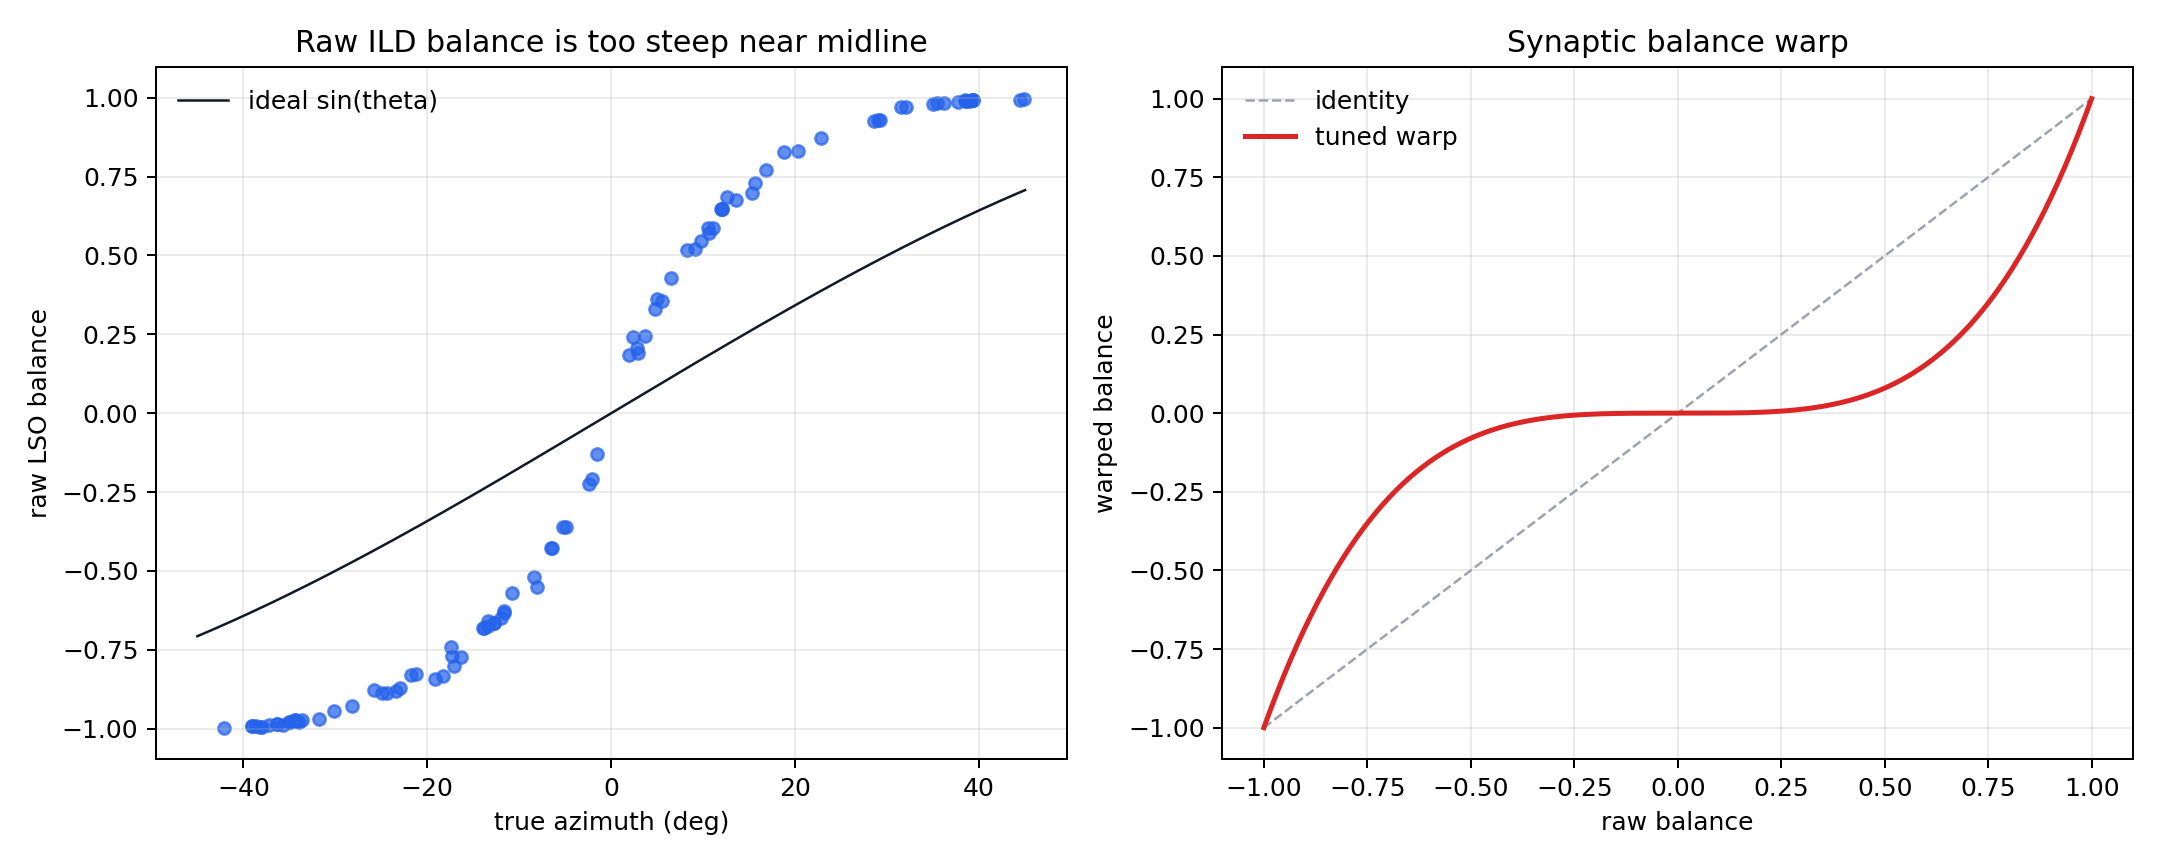
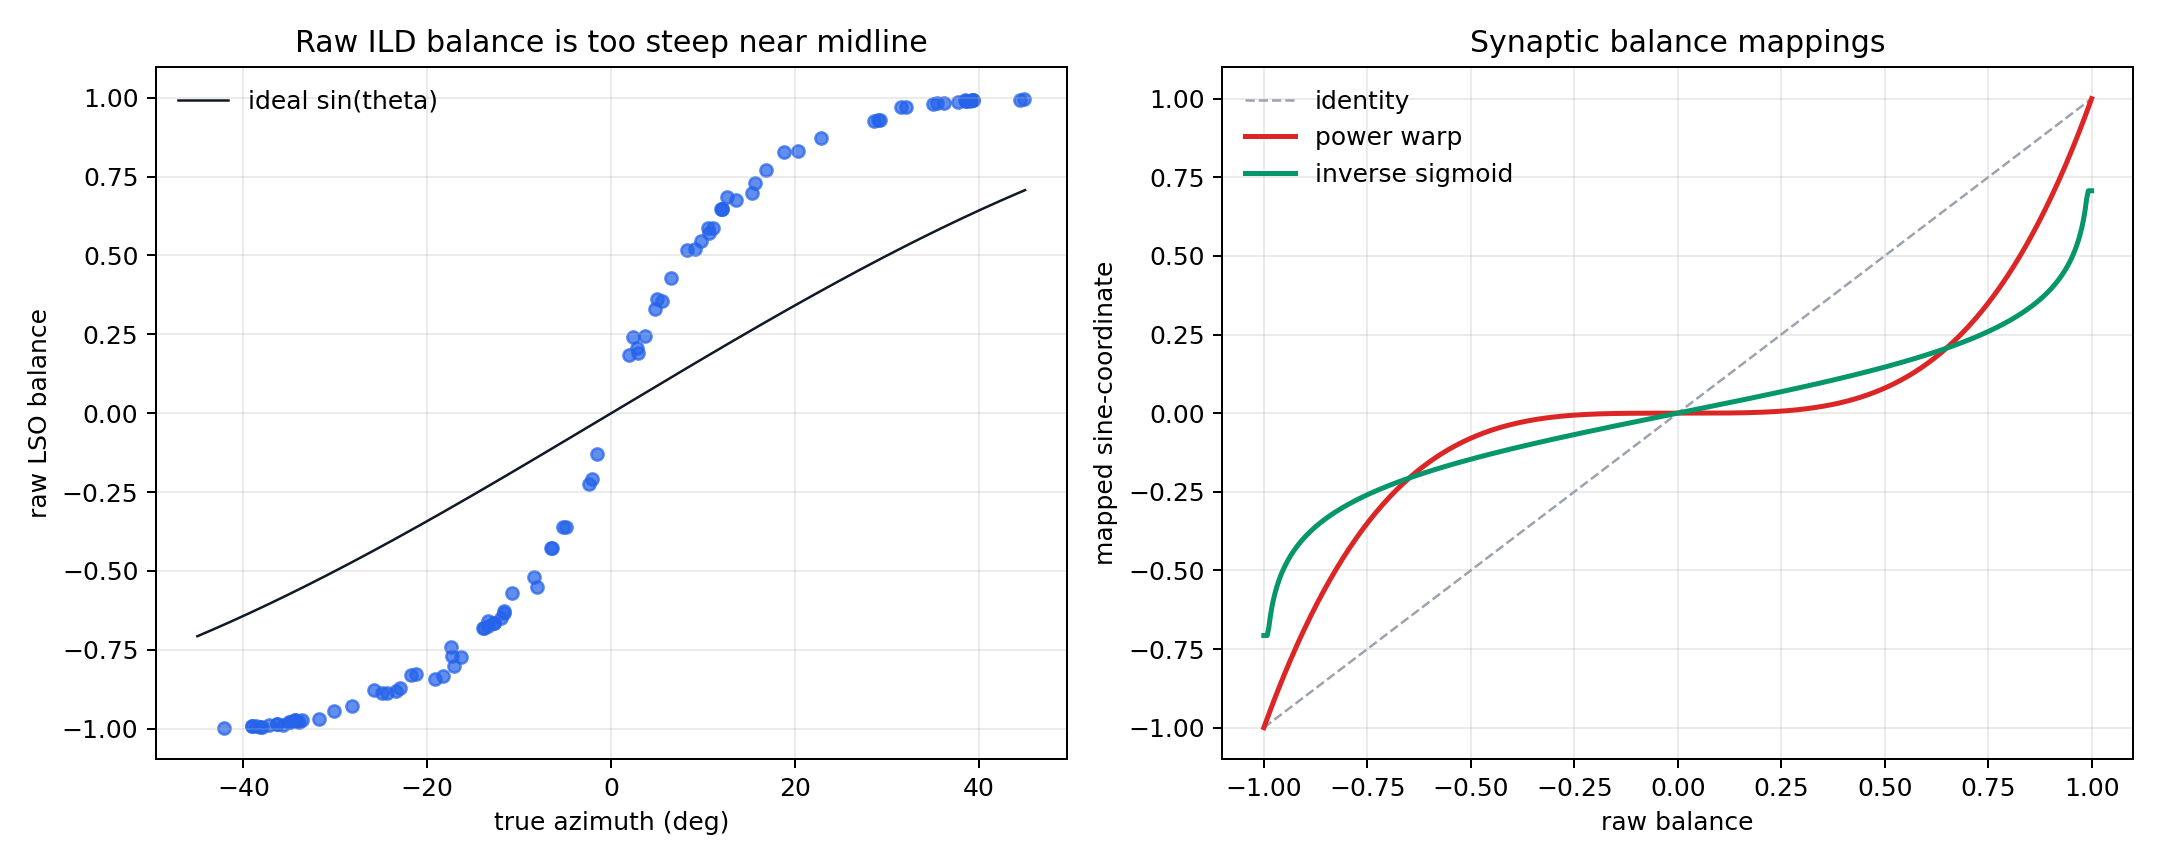
sigmoid warping

diff --git a/azimuth_pathway/experiments/azimuth_pathway_first_attempt.py b/azimuth_pathway/experiments/azimuth_pathway_first_attempt.py
@@ -57,6 +57,7 @@ ITD_WEIGHT = 0.90
 ILD_WEIGHT = 0.10
 WARP_POWER_GRID = np.linspace(1.0, 5.0, 81)
 WARP_SIGMA_GRID = np.linspace(0.03, 0.30, 55)
+INVERSE_SIGMOID_K_GRID = np.linspace(1.0, 10.0, 181)
 
 OLD_MODEL_AZIMUTH_RESULTS = {
     "Round 3 2B + 3": 2.8595,
@@ -385,6 +386,105 @@ def tune_warped_ild_mapping(predictions: list[AzimuthPrediction], bins_deg: np.n
     return best
 
 
+def inverse_sigmoid_ild_activation(
+    balance: float,
+    drive: float,
+    bins_deg: np.ndarray,
+    gain: float,
+    sigma: float,
+    limit_deg: float,
+) -> np.ndarray:
+    """Project LSO balance with an inverse-sigmoid synaptic mapping.
+
+    This assumes the measured LSO balance is a saturating function of the
+    underlying azimuth coordinate, approximately `b = tanh(k sin(theta))`.
+    The mapping therefore estimates the hidden sine-coordinate by applying
+    `atanh(b) / k`.
+
+    Args:
+        balance: Raw opponent balance.
+        drive: Total opponent drive.
+        bins_deg: Candidate azimuth bins.
+        gain: Saturation gain `k`.
+        sigma: Synaptic tuning width in sine-coordinate units.
+        limit_deg: Represented azimuth support used for clipping.
+
+    Returns:
+        Inverse-sigmoid ILD activation over candidate azimuth bins.
+    """
+    max_sine = math.sin(math.radians(limit_deg))
+    safe_balance = float(np.clip(balance, -0.999999, 0.999999))
+    mapped = float(np.arctanh(safe_balance)) / gain
+    mapped = float(np.clip(mapped, -max_sine, max_sine))
+    expected = np.sin(np.deg2rad(bins_deg))
+    return np.exp(-0.5 * ((mapped - expected) / sigma) ** 2) * drive
+
+
+def decode_inverse_sigmoid_ild(
+    predictions: list[AzimuthPrediction],
+    bins_deg: np.ndarray,
+    gain: float,
+    sigma: float,
+    limit_deg: float,
+) -> tuple[np.ndarray, list[np.ndarray]]:
+    """Decode inverse-sigmoid ILD predictions for a dataset.
+
+    Args:
+        predictions: Existing pathway predictions with LSO stage outputs.
+        bins_deg: Candidate azimuth bins.
+        gain: Saturation gain `k`.
+        sigma: Synaptic tuning width.
+        limit_deg: Represented azimuth support.
+
+    Returns:
+        Pair `(decoded_degrees, activations)`.
+    """
+    decoded = []
+    activations = []
+    for prediction in predictions:
+        balance, drive = lso_balance_and_drive(prediction)
+        activation = inverse_sigmoid_ild_activation(balance, drive, bins_deg, gain, sigma, limit_deg)
+        activations.append(activation)
+        decoded.append(centre_of_mass(activation, bins_deg))
+    return np.array(decoded, dtype=np.float64), activations
+
+
+def tune_inverse_sigmoid_ild_mapping(
+    predictions: list[AzimuthPrediction],
+    bins_deg: np.ndarray,
+    limit_deg: float,
+) -> dict[str, float]:
+    """Grid-search the inverse-sigmoid ILD mapping.
+
+    Args:
+        predictions: Calibration predictions.
+        bins_deg: Candidate azimuth bins.
+        limit_deg: Represented azimuth support.
+
+    Returns:
+        Best inverse-sigmoid parameters and calibration metrics.
+    """
+    true = np.array([item.true_azimuth_deg for item in predictions], dtype=np.float64)
+    best: dict[str, float] | None = None
+    for gain in INVERSE_SIGMOID_K_GRID:
+        for sigma in WARP_SIGMA_GRID:
+            decoded, _ = decode_inverse_sigmoid_ild(predictions, bins_deg, float(gain), float(sigma), limit_deg)
+            error = decoded - true
+            mae = float(np.mean(np.abs(error)))
+            if best is None or mae < best["mae_deg"]:
+                best = {
+                    "gain": float(gain),
+                    "sigma": float(sigma),
+                    "mae_deg": mae,
+                    "rmse_deg": float(np.sqrt(np.mean(error**2))),
+                    "max_abs_error_deg": float(np.max(np.abs(error))),
+                    "bias_deg": float(np.mean(error)),
+                }
+    if best is None:
+        raise RuntimeError("Inverse-sigmoid ILD tuning failed.")
+    return best
+
+
 def metric_dict_from_arrays(true: np.ndarray, pred: np.ndarray) -> dict[str, float]:
     """Compute azimuth metrics from arrays."""
     error = angular_error(pred, true)
@@ -661,13 +761,15 @@ def plot_range_comparison(
 def plot_warped_ild_scatter(
     predictions: list[AzimuthPrediction],
     warped_predictions_deg: np.ndarray,
+    inverse_predictions_deg: np.ndarray,
     path: Path,
 ) -> str:
-    """Plot raw and warped ILD predictions against true azimuth.
+    """Plot raw and calibrated ILD predictions against true azimuth.
 
     Args:
         predictions: Primary azimuth predictions.
         warped_predictions_deg: Warped ILD decoded azimuths.
+        inverse_predictions_deg: Inverse-sigmoid ILD decoded azimuths.
         path: Figure path.
 
     Returns:
@@ -677,13 +779,14 @@ def plot_warped_ild_scatter(
     raw = np.array([item.ild_prediction_deg for item in predictions], dtype=np.float64)
     fig, ax = plt.subplots(figsize=(7.2, 6.2))
     ax.scatter(true, raw, s=22, alpha=0.58, label="raw ILD")
-    ax.scatter(true, warped_predictions_deg, s=24, alpha=0.76, label="warped ILD")
-    low = min(float(true.min()), float(raw.min()), float(warped_predictions_deg.min()))
-    high = max(float(true.max()), float(raw.max()), float(warped_predictions_deg.max()))
+    ax.scatter(true, warped_predictions_deg, s=24, alpha=0.64, label="power-warp ILD")
+    ax.scatter(true, inverse_predictions_deg, s=26, alpha=0.78, label="inverse-sigmoid ILD")
+    low = min(float(true.min()), float(raw.min()), float(warped_predictions_deg.min()), float(inverse_predictions_deg.min()))
+    high = max(float(true.max()), float(raw.max()), float(warped_predictions_deg.max()), float(inverse_predictions_deg.max()))
     ax.plot([low, high], [low, high], color="#111827", linewidth=1.0)
     ax.set_xlabel("true azimuth (deg)")
     ax.set_ylabel("decoded azimuth (deg)")
-    ax.set_title("Warped synaptic mapping corrects the ILD sigmoid")
+    ax.set_title("Synaptic mapping layers correct the ILD sigmoid")
     ax.grid(True, alpha=0.25)
     ax.legend(frameon=False)
     return save_figure(fig, path)
@@ -692,13 +795,15 @@ def plot_warped_ild_scatter(
 def plot_warped_ild_mapping(
     predictions: list[AzimuthPrediction],
     warp_params: dict[str, float],
+    inverse_params: dict[str, float],
     path: Path,
 ) -> str:
-    """Plot the tuned balance warp and measured LSO balance.
+    """Plot the tuned balance warps and measured LSO balance.
 
     Args:
         predictions: Primary azimuth predictions.
         warp_params: Tuned warp parameters.
+        inverse_params: Tuned inverse-sigmoid parameters.
         path: Figure path.
 
     Returns:
@@ -708,6 +813,9 @@ def plot_warped_ild_mapping(
     balances = np.array([lso_balance_and_drive(item)[0] for item in predictions], dtype=np.float64)
     grid = np.linspace(-1.0, 1.0, 501)
     warped = np.sign(grid) * np.abs(grid) ** warp_params["power"]
+    max_sine = math.sin(math.radians(AZIMUTH_LIMIT_DEG))
+    inverse = np.arctanh(np.clip(grid, -0.999999, 0.999999)) / inverse_params["gain"]
+    inverse = np.clip(inverse, -max_sine, max_sine)
     fig, axes = plt.subplots(1, 2, figsize=(12.0, 4.8))
 
     axes[0].scatter(true, balances, s=24, alpha=0.72, color="#2563eb")
@@ -725,10 +833,11 @@ def plot_warped_ild_mapping(
     axes[0].legend(frameon=False)
 
     axes[1].plot(grid, grid, color="#9ca3af", linestyle="--", linewidth=1.0, label="identity")
-    axes[1].plot(grid, warped, color="#dc2626", linewidth=2.0, label="tuned warp")
+    axes[1].plot(grid, warped, color="#dc2626", linewidth=2.0, label="power warp")
+    axes[1].plot(grid, inverse, color="#059669", linewidth=2.0, label="inverse sigmoid")
     axes[1].set_xlabel("raw balance")
-    axes[1].set_ylabel("warped balance")
-    axes[1].set_title("Synaptic balance warp")
+    axes[1].set_ylabel("mapped sine-coordinate")
+    axes[1].set_title("Synaptic balance mappings")
     axes[1].grid(True, alpha=0.25)
     axes[1].legend(frameon=False)
 
@@ -754,6 +863,7 @@ def write_report(
     stress_predictions: list[AzimuthPrediction],
     metrics: dict[str, dict[str, float]],
     warp_params: dict[str, float],
+    inverse_params: dict[str, float],
     artifacts: dict[str, str],
     elapsed_s: float,
 ) -> None:
@@ -766,7 +876,8 @@ def write_report(
     metric_rows = [
         format_metric_row("ITD only", metrics["primary_itd"]),
         format_metric_row("ILD only", metrics["primary_ild"]),
-        format_metric_row("ILD warped", metrics["primary_ild_warped"]),
+        format_metric_row("ILD power warp", metrics["primary_ild_warped"]),
+        format_metric_row("ILD inverse sigmoid", metrics["primary_ild_inverse_sigmoid"]),
         format_metric_row("Combined", metrics["primary_combined"]),
         format_metric_row("Combined stress +/-90 deg", metrics["stress_combined"]),
     ]
@@ -856,6 +967,20 @@ def write_report(
         "where $D=\\sum_c LSO_L(c)+\\sum_c LSO_R(c)$ is the total opponent drive. This is equivalent to changing the synaptic projection from the LSO balance coordinate into the topographic azimuth coordinate.",
         "",
         f"The tuned parameters on this deterministic `+/-45 deg` test were `gamma = {warp_params['power']:.3f}` and `sigma_w = {warp_params['sigma']:.3f}`.",
+        "",
+        "A second variant treats the raw LSO balance as a saturating sigmoid of the hidden azimuth coordinate. If",
+        "",
+        "$$",
+        "b \\approx \\tanh(k\\sin\\theta),",
+        "$$",
+        "",
+        "then the inverse-sigmoid estimate is:",
+        "",
+        "$$",
+        "\\tilde b = \\frac{\\operatorname{atanh}(b)}{k}.",
+        "$$",
+        "",
+        f"The tuned inverse-sigmoid parameters were `k = {inverse_params['gain']:.3f}` and `sigma_w = {inverse_params['sigma']:.3f}`. This is the better correction in this experiment, which supports the interpretation that the raw ILD pathway is mostly a saturating monotonic map rather than a noisy unordered cue.",
         "",
         "![Warped ILD mapping](../outputs/first_attempt/figures/warped_ild_mapping.png)",
         "",
@@ -947,11 +1072,20 @@ def main() -> dict[str, object]:
         warp_params["power"],
         warp_params["sigma"],
     )
+    inverse_params = tune_inverse_sigmoid_ild_mapping(primary_predictions, primary_bins, AZIMUTH_LIMIT_DEG)
+    inverse_ild_predictions, _ = decode_inverse_sigmoid_ild(
+        primary_predictions,
+        primary_bins,
+        inverse_params["gain"],
+        inverse_params["sigma"],
+        AZIMUTH_LIMIT_DEG,
+    )
     primary_true = np.array([item.true_azimuth_deg for item in primary_predictions], dtype=np.float64)
     metrics = {
         "primary_itd": metric_dict(primary_predictions, "itd_prediction_deg"),
         "primary_ild": metric_dict(primary_predictions, "ild_prediction_deg"),
         "primary_ild_warped": metric_dict_from_arrays(primary_true, warped_ild_predictions),
+        "primary_ild_inverse_sigmoid": metric_dict_from_arrays(primary_true, inverse_ild_predictions),
         "primary_combined": metric_dict(primary_predictions, "combined_prediction_deg"),
         "stress_combined": metric_dict(stress_predictions, "combined_prediction_deg"),
     }
@@ -968,11 +1102,13 @@ def main() -> dict[str, object]:
         "warped_ild_mapping": plot_warped_ild_mapping(
             primary_predictions,
             warp_params,
+            inverse_params,
             FIGURE_DIR / "warped_ild_mapping.png",
         ),
         "warped_ild_scatter": plot_warped_ild_scatter(
             primary_predictions,
             warped_ild_predictions,
+            inverse_ild_predictions,
             FIGURE_DIR / "warped_ild_scatter.png",
         ),
     }
@@ -1000,9 +1136,12 @@ def main() -> dict[str, object]:
             "ild_weight": ILD_WEIGHT,
             "warped_ild_power": warp_params["power"],
             "warped_ild_sigma": warp_params["sigma"],
+            "inverse_sigmoid_ild_gain": inverse_params["gain"],
+            "inverse_sigmoid_ild_sigma": inverse_params["sigma"],
         },
         "metrics": metrics,
         "warped_ild_tuning": warp_params,
+        "inverse_sigmoid_ild_tuning": inverse_params,
         "old_model_azimuth_mae_deg": OLD_MODEL_AZIMUTH_RESULTS,
         "primary_predictions": [
             {
@@ -1010,6 +1149,7 @@ def main() -> dict[str, object]:
                 "itd_prediction_deg": item.itd_prediction_deg,
                 "ild_prediction_deg": item.ild_prediction_deg,
                 "ild_warped_prediction_deg": float(warped_ild_predictions[index]),
+                "ild_inverse_sigmoid_prediction_deg": float(inverse_ild_predictions[index]),
                 "combined_prediction_deg": item.combined_prediction_deg,
             }
             for index, item in enumerate(primary_predictions)
@@ -1024,7 +1164,7 @@ def main() -> dict[str, object]:
         "artifacts": artifacts,
     }
     RESULTS_PATH.write_text(json.dumps(payload, indent=2), encoding="utf-8")
-    write_report(config, primary_predictions, stress_predictions, metrics, warp_params, artifacts, elapsed_s)
+    write_report(config, primary_predictions, stress_predictions, metrics, warp_params, inverse_params, artifacts, elapsed_s)
     return payload
 
 

diff --git a/azimuth_pathway/reports/azimuth_pathway_first_attempt.md b/azimuth_pathway/reports/azimuth_pathway_first_attempt.md
@@ -84,6 +84,20 @@ where $D=\sum_c LSO_L(c)+\sum_c LSO_R(c)$ is the total opponent drive. This is e
 
 The tuned parameters on this deterministic `+/-45 deg` test were `gamma = 3.650` and `sigma_w = 0.275`.
 
+A second variant treats the raw LSO balance as a saturating sigmoid of the hidden azimuth coordinate. If
+
+$$
+b \approx \tanh(k\sin\theta),
+$$
+
+then the inverse-sigmoid estimate is:
+
+$$
+\tilde b = \frac{\operatorname{atanh}(b)}{k}.
+$$
+
+The tuned inverse-sigmoid parameters were `k = 3.750` and `sigma_w = 0.120`. This is the better correction in this experiment, which supports the interpretation that the raw ILD pathway is mostly a saturating monotonic map rather than a noisy unordered cue.
+
 ![Warped ILD mapping](../outputs/first_attempt/figures/warped_ild_mapping.png)
 
 ![Warped ILD scatter](../outputs/first_attempt/figures/warped_ild_scatter.png)
@@ -116,7 +130,8 @@ The primary test uses the same azimuth support as the old Round 3/4 training set
 |---|---:|---:|---:|---:|
 | ITD only | `1.891 deg` | `2.841 deg` | `18.012 deg` | `-0.018 deg` |
 | ILD only | `11.799 deg` | `13.976 deg` | `21.756 deg` | `-1.315 deg` |
-| ILD warped | `2.745 deg` | `3.384 deg` | `9.345 deg` | `-0.699 deg` |
+| ILD power warp | `2.745 deg` | `3.384 deg` | `9.345 deg` | `-0.699 deg` |
+| ILD inverse sigmoid | `0.982 deg` | `1.480 deg` | `6.577 deg` | `-0.039 deg` |
 | Combined | `1.860 deg` | `2.848 deg` | `17.537 deg` | `-0.054 deg` |
 | Combined stress +/-90 deg | `17.749 deg` | `20.211 deg` | `37.004 deg` | `-2.030 deg` |
 
@@ -161,4 +176,4 @@ This first standalone pathway is not yet a full replacement for the old trained 
 - `warped_ild_scatter`: `azimuth_pathway/outputs/first_attempt/figures/warped_ild_scatter.png`
 - `results`: `azimuth_pathway/outputs/first_attempt/results.json`
 
-Runtime: `9.93 s`.
+Runtime: `21.08 s`.
